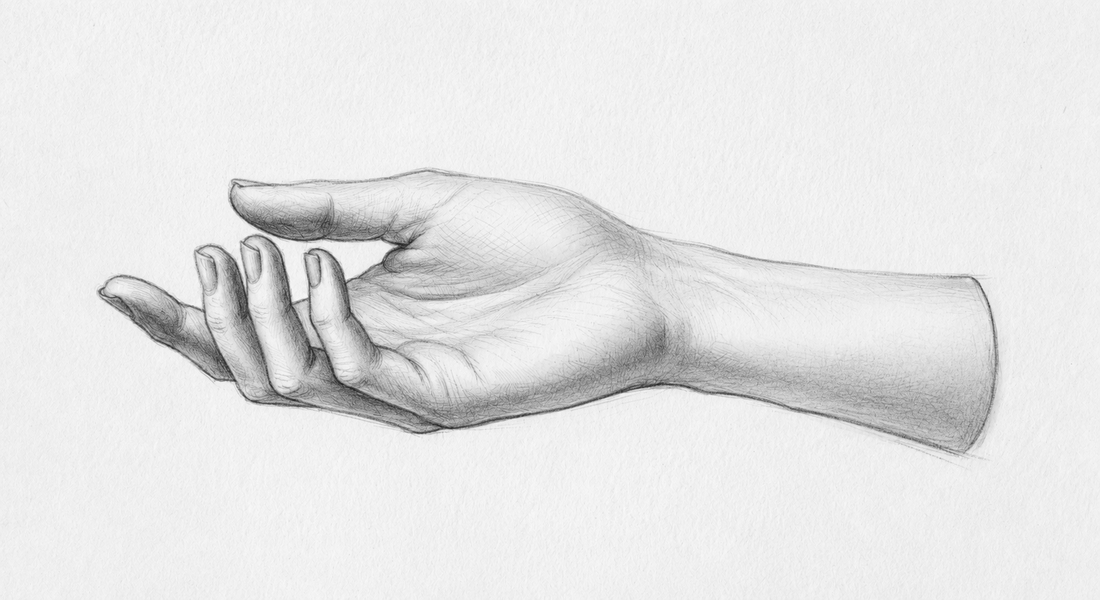
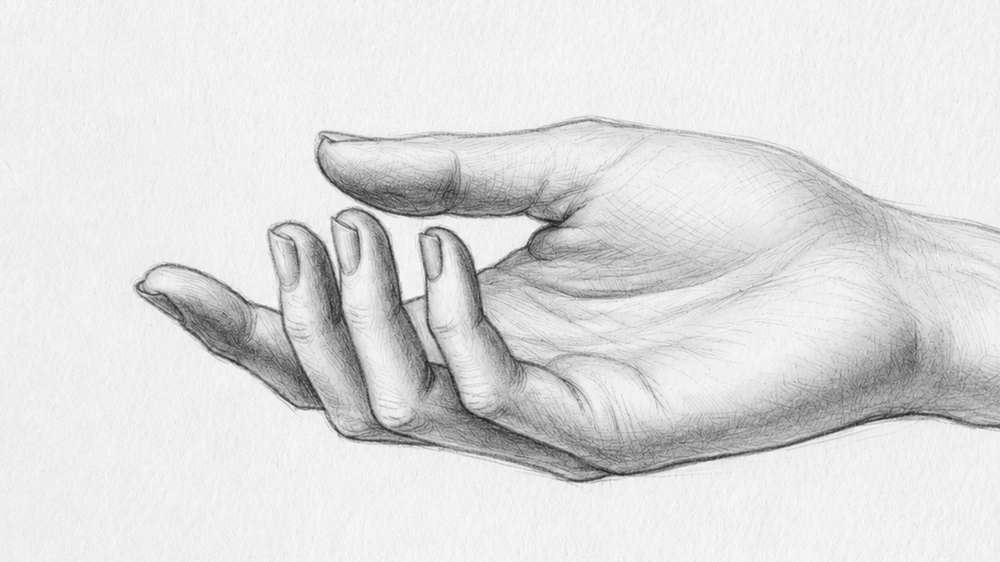
fix(purposemaker): 手を女性的に磨く — 前腕クロップ＋無歪みマッピング＋手首を場へ溶解
adversarialレビューの手所見を是正（ポーズはユーザー指定リファレンスのまま維持）:
- fixtures を手中心にクロップ（長い前腕バー→短いスタブ）→ 手が主役・大きく。再bake。
- 無歪みマッピング（spanX≈アスペクト×spanY）で長い指が潰れず長く描画（旧 spanX1.08 は
  横圧縮で指がずんぐり＝男性的に見えていた）。Both は縮小して指先が中央で出会う配置。
- armFade: 手は明るいまま手首/スタブだけ場へ溶解（ブロック状前腕の解消）。recruit 0.50→0.45
  で掌の白飛びを抑えレースィに。handTargets 向きテストを頑健な不変条件(腕スタブの左右)へ更新。
headless 実見: R=右入/ L=左入/ Both=指先が中央で接触、指が長く読める。node --test 255 緑。

Polish the hands feminine (keeping the user's chosen drape pose): crop fixtures
hand-dominant, map undistorted so long fingers render long (old spanX squished them
stubby), dissolve the wrist into the field, thin the palm. Verified R/L/Both orientation.

Claude-Session: https://claude.ai/code/session_01TDo59SJjRsGDawtwgz2oFi

Changed region(s): [[0.093, 0.2117, 1.0, 0.8772], [0.961, 0.484, 0.992, 0.5142]]

diff --git a/src/scenes/dots/PurposeMaker.js b/src/scenes/dots/PurposeMaker.js
@@ -14,6 +14,12 @@ const MAXN = 44000;
 const SIMX = 1.6, SIMY = 1.2;   // sim half-extent (viewport shows ±1.0) -> off-frame bleed
 const TILT = 0.06;              // tiny fixed tilt for life (hands stay readable)
 const BANDS = 6;
+// Hand placement. The fixtures are cropped hand-dominant (~1.78 aspect); spanX ≈ aspect*spanY
+// keeps the mapping UNDISTORTED so the long fingers render long (not squished stubby). Single
+// hand: fingertips reach centre, the wrist/stub runs off toward its entry edge. Both: scaled
+// down so two hands fit, fingertips meeting at centre with a small gap + vertical offset.
+const SPANX = 1.64, SPANY = 0.92, OFFA = -0.30, OFFB = -1.34;
+const BSPANX = 0.95, BSPANY = 0.53, BOFFA = -0.16, BOFFB = -0.786, BDY = 0.10;
 
 export class PurposeMaker extends Scene {
   constructor() {
@@ -22,7 +28,7 @@ export class PurposeMaker extends Scene {
     this.modes = [{ name: 'Cycle' }, { name: 'Right' }, { name: 'Left' }, { name: 'Both' }];
     this.modeGroups = [{ key: 'audio', label: 'Audio', options: ['OFF', 'ON'], index: 1 }];
     this.defineParam('count', 42000, 10000, MAXN, 1000, 'Particles');
-    this.defineParam('recruit', 0.50, 0.3, 0.9, 0.05, 'Recruit');
+    this.defineParam('recruit', 0.45, 0.3, 0.9, 0.05, 'Recruit');
     this.defineParam('flow', 0.62, 0.1, 1.5, 0.05, 'Flow Speed');
     this.defineParam('scale', 1.6, 0.6, 3.2, 0.1, 'Field Scale');
     this.defineParam('cohesion', 1.0, 0.3, 2.0, 0.1, 'Cohesion');
@@ -118,8 +124,7 @@ export class PurposeMaker extends Scene {
     const zt = this.t * 0.05;
     const cohK = this.p('cohesion') * 8.0;
     const noise = this.noise;
-    // hand placement (narrower spanX so long fingers aren't stretched sideways).
-    const H = this.hands, SPANX = 1.08, SPANY = 1.0, OFFA = -0.18, OFFB = -0.90;
+    const H = this.hands;
 
     for (let i = 0; i < n; i++) {
       this.PX[i] = this.X[i]; this.PY[i] = this.Y[i]; this.PZ[i] = this.Z[i];
@@ -143,9 +148,15 @@ export class PurposeMaker extends Scene {
         else if (st.station === 'L') { hand = 1; cloud = H.B; }
         else { hand = this._h(i * 3 + 1) < 0.5 ? 0 : 1; cloud = hand === 0 ? H.A : H.B; }
         const idx = i % cloud.n;
-        const tx = (hand === 0 ? OFFA : OFFB) + SPANX * (cloud.u[idx] / 32767);
-        let ty = (0.5 - cloud.v[idx] / 32767) * SPANY;
-        if (st.station === 'Both') ty += hand === 0 ? 0.11 : -0.11;
+        const u = cloud.u[idx] / 32767, vv = cloud.v[idx] / 32767;
+        let tx, ty;
+        if (st.station === 'Both') {
+          tx = (hand === 0 ? BOFFA : BOFFB) + BSPANX * u;
+          ty = (0.5 - vv) * BSPANY + (hand === 0 ? BDY : -BDY);
+        } else {
+          tx = (hand === 0 ? OFFA : OFFB) + SPANX * u;
+          ty = (0.5 - vv) * SPANY;
+        }
         vx += dirx * comb; vy += diry * comb;
         const qv = cc > 0.5 ? 0.010 * Math.sin(this.t * 16 + hi * TWO_PI) : 0;
         vx = vx * sp * (1 - cc) + ((tx - x) * cohK + qv) * cc * dt;
@@ -204,7 +215,12 @@ export class PurposeMaker extends Scene {
       if (isHand) {
         // hands = the luminous focal point; drawn prev->cur (crisp grains; convergence on gather).
         bx = pxs; by = pys;
-        bv = 0.86 * (0.5 + 0.5 * d) * (1 + 0.25 * flash);
+        // the wrist/stub DISSOLVES into the field: the hand stays full bright out to ax≈0.55
+        // (fingertips→palm), then tapers so the arm-root fades off — kills the blocky-forearm
+        // read and makes the hand the focal mass. (fingertips sit near centre where Both meet.)
+        const ax = Math.abs(sxc - cx) / R;
+        const armFade = ax < 0.55 ? 1 : Math.max(0.25, 1 - 1.5 * (ax - 0.55));
+        bv = 0.90 * armFade * (0.5 + 0.5 * d) * (1 + 0.25 * flash);
       } else {
         // ambient: positional waveform + treble displacement applied to the head.
         if (ripAmp || shAmp) {